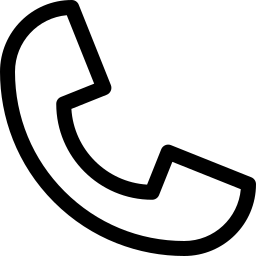
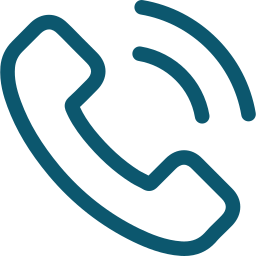
new updates4

diff --git a/templates/index.html b/templates/index.html
@@ -163,7 +163,7 @@
               <div class="col-sm"><br>
                  <p style="font-family: 'Questrial', sans-serif; font-size:150%;">
                    We are here for you
-                    call us now and let us help you.
+                    call us now and let us help you
                  </p>
               </div>
             </div>
@@ -176,7 +176,7 @@
           </a></br>
         </div>
         <div class=" hero-img" align="center">
-          <br><img src="assets/img/cc.jpeg" class="img-fluid" alt="">
+          <br><img src="assets/img/cc.png" class="img-fluid" alt="">
         </div>
       </div>
     </div>
@@ -188,14 +188,14 @@
         <!-- ======= Service Section ======= -->
     <section id="service" class="service">
       <div class="container" align="center">
-        <h2 style="color: #0C576E;" align="center"><b>What is the Process</b></h2><br><br>
-        <h4 align="center">Hoover over the flipping cards to see the details.</h4><br>
+        <h2 style="color: #0C576E;" align="center"><b>What is the Process</b></h2><br>
+        <h4 align="center">Hoover over the flipping cards to see the details</h4><br>
         <div class="row justify-content-center d-flex" style="align-content:center;" >
           <div class="flip-card col-md-2 col-lg-2 col-sm-12 col-xs-12" style=" width:15rem; margin:0.5em; align-items: center;">
             <div class="flip-card-inner" style=" border-radius: 25px; box-shadow: 0.5px 0.5px 0.5px grey;">
               <div class="flip-card-front"style=" border-radius: 25px; background-color:#C8EDF9;">
                 <br><br><br><h1>Call Us!</h1>
-                <img src="assets/img/phone1.png" style="width:5rem;">
+                <img src="assets/img/phone1_1.png" style="width:5rem;">
               </div>
               <div class="flip-card-back" style=" border-radius: 25px;">
                 <br><br><br><br>
@@ -208,7 +208,7 @@
             <div class="flip-card-inner" style=" border-radius: 25px; box-shadow: 0.5px 0.5px 0.5px grey;">
               <div class="flip-card-front" style="  border-radius: 25px;background-color:#A3E0F5;">
                 <br><br><h1>Fill information</h1>
-                <img src="assets/img/briefing.png" style="width:5rem;">
+                <img src="assets/img/briefing_1.png" style="width:5rem;">
               </div>
               <div class="flip-card-back" style=" padding:1rem; border-radius: 25px;">
                 <br><h4>Fill our survey to help us make sure you are safe, and contact you later. Your information is secure and will not be shared</h4>
@@ -232,7 +232,7 @@
           <div class="flip-card col-md-2 col-lg-2 col-sm-12 col-xs-12" style="width:15rem; margin:0.5em;">
             <div class="flip-card-inner" style=" border-radius: 25px; box-shadow: 0.5px 0.5px 0.5px grey;">
               <div class="flip-card-front" style=" border-radius: 25px; background-color:#35BCE9;">
-                <br><br><h1>Find your match!</h1>
+                <br><br><h1>Find your match</h1>
                 <img src="assets/img/jigsaw.png" style="width:5rem;">
               </div>
               <div class="flip-card-back"style=" border-radius: 25px;">
